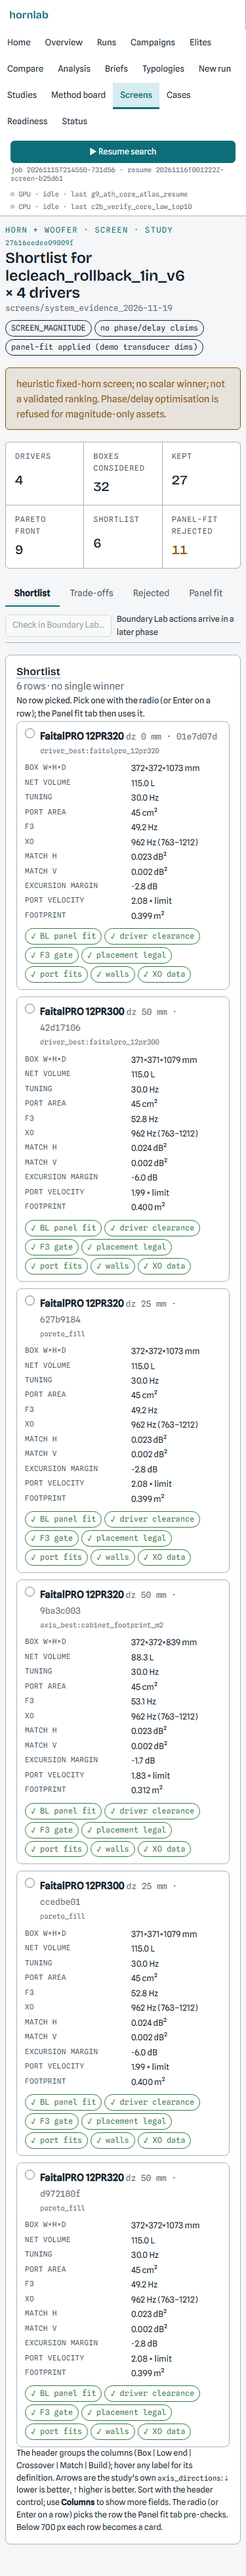
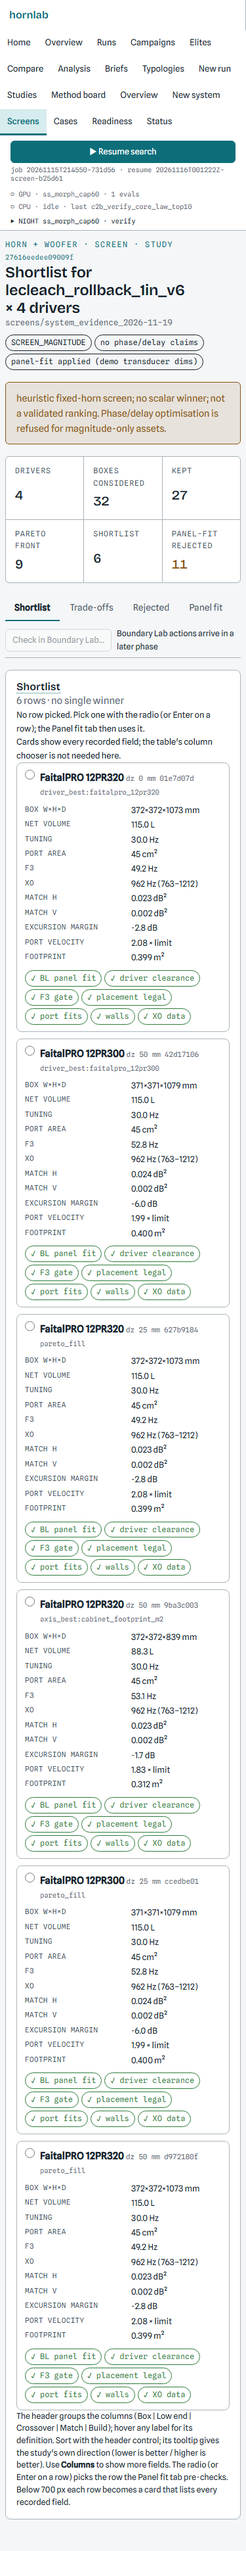
fix(gui): shortlist readability follow-ups (observer review)
Keeps Hz/dB²/cm²/m²/× limit casing in headers (th uppercase no longer touches unit spans), leaves one sort glyph per header, uses the same driver_name in table and cards, renders driver meta as two nowrap items with no dangling separator, adds a prominent sideways-scroll banner plus a sticky Driver column at >=701 px, and tells mobile card mode that it already lists every field. Re-shot the two chooser screenshots: the earlier dark files were light-theme because the probe URL had 'dark/'. Browser check exit 0, 0 failures/0 console errors across 8 combinations; evidence refreshed under shortlist_after.

Changed region(s): [[0.0, 0.0312, 0.9973, 0.9977], [0.8213, 0.0, 0.8507, 0.0312]]

diff --git a/hornlab_search/gui/static/hw_screen.js b/hornlab_search/gui/static/hw_screen.js
@@ -183,6 +183,8 @@ const modelOf = id => {
 };
 const shortIdOf = r => String(r.candidate_id == null ? "" : r.candidate_id).slice(0, 8);
 const dzMmOf = r => r.placement && r.placement.dz_mm != null ? num(r.placement.dz_mm, 0) : "–";
+/** Driver meta line shared by the table and the 375 px cards: wraps between items, no dangling dot. */
+const driverMetaHtml = r => `<span class="hw-driver-meta mono muted"><span>dz ${esc(dzMmOf(r))} mm</span><span>${esc(shortIdOf(r))}</span></span>`;
 const xoBandOf = r => (Array.isArray(r.xo_band_hz) && r.xo_band_hz.length >= 2)
   ? [Math.min(...r.xo_band_hz), Math.max(...r.xo_band_hz)] : null;
 
@@ -218,6 +220,8 @@ const SCREEN_CSS = `
 #hw-shortlist { font-size:0.82rem; }
 #hw-shortlist th, #hw-shortlist td { padding:5px 8px; vertical-align:middle; }
 #hw-shortlist thead th { background:var(--surface); font-size:0.74rem; white-space:nowrap; }
+/* Units keep their real casing under the page's uppercase th treatment (Hz, dB², cm²). */
+#hw-shortlist .hw-unit { text-transform:none; }
 #hw-shortlist thead tr.hw-groups th.hw-group {
   font-size:0.66rem; text-transform:uppercase; letter-spacing:0.07em; color:var(--label);
   font-weight:600; text-align:left; padding:6px 8px 2px; border-bottom:1px solid var(--rule); }
@@ -233,11 +237,27 @@ const SCREEN_CSS = `
 #hw-shortlist th[data-col="why"] { min-width:8rem; }
 #hw-shortlist th[data-col="box"] { min-width:10.5rem; }
 #hw-shortlist th[data-col="lowend"] { min-width:7.5rem; }
+/* Driver meta (dz + id): wraps between items, never leaves a dangling separator. */
+.hw-driver-meta { display:inline-flex; flex-wrap:wrap; gap:0 6px; max-width:100%;
+  font-size:0.68rem; line-height:1.35; }
+.hw-driver-meta > span { white-space:nowrap; }
 #hw-shortlist input[type="radio"], .hw-card input[type="radio"] {
   width:15px; height:15px; margin:0; accent-color:var(--accent); }
 #hw-shortlist tbody tr[aria-selected="true"] {
   background:color-mix(in srgb, var(--accent) 10%, var(--surface)); }
 #hw-shortlist tbody tr:focus-visible { outline:2px solid var(--accent); outline-offset:-2px; }
+/* Sticky Driver column (table mode only): row identity survives a sideways scroll. */
+@media (min-width:701px) {
+  #hw-shortlist th[data-col="driver"],
+  #hw-shortlist td[data-col="driver"] {
+    position:sticky; left:0; background:var(--surface);
+    box-shadow:1px 0 0 var(--rule); }
+  #hw-shortlist th[data-col="driver"] { z-index:3; }
+  #hw-shortlist td[data-col="driver"] { z-index:1; }
+  #hw-shortlist tbody tr:hover td[data-col="driver"] { background:var(--accent-soft); }
+  #hw-shortlist tbody tr[aria-selected="true"] td[data-col="driver"] {
+    background:color-mix(in srgb, var(--accent) 10%, var(--surface)); }
+}
 
 /* Column chooser: a native <details> popover that never widens the page. */
 #hw-shortlist-card .hw-cols { position:relative; }
@@ -273,8 +293,13 @@ const SCREEN_CSS = `
   text-decoration:underline; text-underline-offset:2px; }
 #hw-screens .hw-open:hover { color:var(--ink); }
 
-#hw-screens-scroll .tbl-scroll-hint,
-#hw-shortlist-scroll .tbl-scroll-hint { font-size:0.8rem; color:var(--label); }
+#hw-screens-scroll .tbl-scroll-hint { font-size:0.8rem; color:var(--label); }
+/* Shortlist: when the wrap really overflows, the cue is a visible banner, not a whisper. */
+#hw-shortlist-scroll.is-scrollable .tbl-scroll-hint {
+  display:block; margin:0 0 6px; padding:4px 10px; text-align:left;
+  border:1px solid var(--accent); border-radius:6px; background:var(--accent-soft);
+  color:var(--accent); font-family:var(--f-body); font-size:0.78rem; font-weight:600;
+  letter-spacing:0; }
 
 /* At desktop width the screens list fits; let the page be the scroll container so the
    sticky header really sticks. The shortlist keeps its own .tbl-wrap scroll at every
@@ -288,9 +313,12 @@ const SCREEN_CSS = `
 }
 
 .hw-cards { display:none; }
+/* The card mode is the whole table there; say so, so the hidden chooser is not a dead end. */
+.hw-card-note { display:none; }
 @media (max-width:700px) {
   .hw-table-view { display:none !important; }
   .hw-cards { display:grid; gap:10px; }
+  .hw-card-note { display:block; }
   /* The card layout carries every field, so the table's column chooser would be a dead control. */
   #hw-shortlist-card .hw-cols { display:none; }
 }
@@ -579,6 +607,8 @@ export async function viewHwScreen(root, studyId, query = "") {
 
   /** The seven reading columns, plus every remaining recorded field behind the chooser. */
   function columnDefs() {
+    // Units keep their real case under the page's uppercase th treatment.
+    const u = t => `<span class="hw-unit">${t}</span>`;
     const whyCell = r => {
       const raw = r.shortlist_reason == null ? "" : String(r.shortlist_reason);
       if (!raw) return `<td class="hw-wrap"><span class="muted">–</span></td>`;
@@ -639,49 +669,49 @@ export async function viewHwScreen(root, studyId, query = "") {
     return [
       { key: "driver", group: null, name: "Driver", sort: "driver", title: "Woofer driver",
         head: () => "Driver",
-        cell: r => `<td class="hw-wrap"><b title="${esc(r.driver_name || r.driver_id || "")}">${esc(modelOf(r.driver_id) || r.driver_name || "–")}</b><br>
-          <span class="mono muted" style="font-size:0.68rem">dz ${esc(dzMmOf(r))} mm · ${esc(shortIdOf(r))}</span></td>` },
+        cell: r => `<td class="hw-wrap"><b title="${esc(r.driver_name || r.driver_id || "")}">${esc(r.driver_name || r.driver_id || "–")}</b><br>
+          ${driverMetaHtml(r)}</td>` },
       { key: "why", group: "Screen", name: "Why shortlisted", sort: "why", title: "Why the screen kept this row",
         head: () => "Why shortlisted", cell: whyCell },
       { key: "box", group: "Box", name: "Box (W×H×D, L)", sort: "box",
         title: "External width × height × depth (mm) and net volume (L)",
-        head: () => "Box (W×H×D, L)", cell: boxCell },
+        head: () => `Box (W×H×D, ${u("L")})`, cell: boxCell },
       { key: "net", group: "Box", name: "Net volume (L)", sort: "net", title: "Net internal volume (L)",
-        head: () => "Net volume (L)",
+        head: () => `Net volume (${u("L")})`,
         cell: r => numTd(r.box && r.box.net_volume_l, 1) },
       { key: "foot", group: "Box", name: "Cabinet footprint (m²)", sort: "foot",
-        title: "Cabinet footprint (m²)", head: () => "Cabinet footprint (m²)",
+        title: "Cabinet footprint (m²)", head: () => `Cabinet footprint (${u("m²")})`,
         cell: r => numTd(r.numeric_axes && r.numeric_axes.cabinet_footprint_m2, 3) },
       { key: "lowend", group: "Low end", name: "Tuning / F3 (Hz)", sort: "tuning",
         title: "Ported-box tuning and the box model's F3 (Hz)",
-        head: () => `${tip("fb_tuning", "Tuning")} / ${tip("f3", "F3")} (Hz)`, cell: lowendCell },
+        head: () => `${tip("fb_tuning", "Tuning")} / ${tip("f3", "F3")} (${u("Hz")})`, cell: lowendCell },
       { key: "f3", group: "Low end", name: "F3 (Hz)", sort: "f3", axisKey: "lf_f3_hz",
-        title: "F3 (Hz)", head: () => `${tip("f3", "F3")} (Hz)`,
+        title: "F3 (Hz)", head: () => `${tip("f3", "F3")} (${u("Hz")})`,
         cell: r => numTd(r.box && r.box.f3_hz, 1) },
       { key: "port", group: "Low end", name: "Port area (cm²)", sort: "port",
-        title: "Port throat area (cm²)", head: () => "Port area (cm²)",
+        title: "Port throat area (cm²)", head: () => `Port area (${u("cm²")})`,
         cell: r => numTd(r.box && r.box.port_throat_area_cm2, 0) },
       { key: "exc", group: "Low end", name: "Excursion margin (dB)", sort: "exc",
         axisKey: "excursion_margin_db", title: "Excursion margin (dB)",
-        head: () => `${tip("excursion_margin", "Excursion margin")} (dB)`,
+        head: () => `${tip("excursion_margin", "Excursion margin")} (${u("dB")})`,
         cell: r => numTd(r.numeric_axes && r.numeric_axes.excursion_margin_db, 1) },
       { key: "pv", group: "Low end", name: "Port velocity (× limit)", sort: "pv",
         axisKey: "port_velocity_ratio", title: "Port velocity as a ratio of the limit",
-        head: () => `${tip("port_velocity", "Port velocity")} (× limit)`,
+        head: () => `${tip("port_velocity", "Port velocity")} (${u("× limit")})`,
         cell: r => numTd(r.numeric_axes && r.numeric_axes.port_velocity_ratio, 2) },
       { key: "xo", group: "Crossover", name: "Crossover (Hz)", sort: "xo",
         title: "Crossover frequency and overlap band (Hz)",
-        head: () => `${tip("xo_band", "Crossover")} (Hz)`, cell: xoCell },
+        head: () => `${tip("xo_band", "Crossover")} (${u("Hz")})`, cell: xoCell },
       { key: "match", group: "Match", name: "Match error H / V (dB²)", sort: "mr_h",
         axisKey: "match_error_h_db2", title: "Shape match error H and V (dB²)",
-        head: () => `${tip("e_shape", "Match H / V")} (dB²)`, cell: matchCell },
+        head: () => `${tip("e_shape", "Match H / V")} (${u("dB²")})`, cell: matchCell },
       { key: "matchh", group: "Match", name: "Match error H (dB²)", sort: "mr_h",
         axisKey: "match_error_h_db2", title: "Shape match error H (dB²)",
-        head: () => `${tip("e_shape", "Match error H")} (dB²)`,
+        head: () => `${tip("e_shape", "Match error H")} (${u("dB²")})`,
         cell: r => fmtTd(r.numeric_axes && r.numeric_axes.match_error_h_db2, "match_error_h_db2") },
       { key: "matchv", group: "Match", name: "Match error V (dB²)", sort: "mr_v",
         axisKey: "match_error_v_db2", title: "Shape match error V (dB²)",
-        head: () => `${tip("e_shape", "Match error V")} (dB²)`,
+        head: () => `${tip("e_shape", "Match error V")} (${u("dB²")})`,
         cell: r => fmtTd(r.numeric_axes && r.numeric_axes.match_error_v_db2, "match_error_v_db2") },
       { key: "feasible", group: "Build", name: "Feasible", sort: "feasible",
         title: "Every recorded feasibility gate", head: () => "Feasible", cell: gatesCell },
@@ -748,7 +778,7 @@ export async function viewHwScreen(root, studyId, query = "") {
             aria-label="Select ${esc(r.driver_name || r.driver_id || "row")} ${esc(cid)}">
           <div>
             <b>${esc(r.driver_name || r.driver_id || "–")}</b>
-            <span class="mono muted">dz ${esc(dzMmOf(r))} mm · ${esc(shortIdOf(r))}</span>
+            ${driverMetaHtml(r)}
             <div class="muted" style="font-size:0.76rem;white-space:normal;overflow-wrap:break-word">
               <code>${esc(r.shortlist_reason || "–")}</code></div>
           </div>
@@ -772,11 +802,12 @@ export async function viewHwScreen(root, studyId, query = "") {
 
     const headInner = d => {
       const active = sort && d.sort && sort.key === d.sort;
-      const arrow = d.axisKey ? dirArrow(d.axisKey, axisDirs) : "";
       const dirText = d.axisKey ? dirWord(d.axisKey, axisDirs) : "";
       const ind = active ? (sort.dir > 0 ? "▲" : "▼") : "↕";
       const title = d.title || d.name;
-      return `${d.head()}${arrow ? ` <span class="muted" aria-hidden="true" title="${esc(dirText)}">${arrow}</span>` : ""}${d.sort
+      // One glyph per header: the sort control. The study's direction stays in the control's
+      // tooltip and accessible name, so Match no longer shows two arrows side by side.
+      return `${d.head()}${d.sort
         ? ` <button type="button" class="linkish" data-sort="${esc(d.sort)}"
             title="Sort by ${esc(title)}${dirText ? " (" + esc(dirText) + ")" : ""}"
             aria-label="Sort by ${esc(title)}${dirText ? ", " + esc(dirText) : ""}">${ind}</button>` : ""}`;
@@ -807,7 +838,9 @@ export async function viewHwScreen(root, studyId, query = "") {
       }
       const rowsHtml = list.map(r => {
         const cid = String(r.candidate_id);
-        return `<tr class="clickable" data-cid="${esc(cid)}" tabindex="0" aria-selected="${cid === selected}">${vis.map(d => d.cell(r)).join("")}</tr>`;
+        // Tag each cell with its column key so the Driver cell can stay sticky while scrolling.
+        const cells = vis.map(d => d.cell(r).replace(/^<td/, `<td data-col="${esc(d.key)}"`)).join("");
+        return `<tr class="clickable" data-cid="${esc(cid)}" tabindex="0" aria-selected="${cid === selected}">${cells}</tr>`;
       }).join("");
       return `<table id="hw-shortlist" aria-label="Shortlist rows">
         <thead><tr class="hw-groups">${groupRow}</tr><tr class="hw-head">${headRow}</tr></thead>
@@ -891,16 +924,18 @@ export async function viewHwScreen(root, studyId, query = "") {
         </details>
       </div>
       <p class="hint" role="status" id="hw-pick-status" style="font-size:0.8rem">${esc(shortlistStatus())}</p>
+      <p class="hint hw-card-note" style="font-size:0.8rem">Cards show every recorded field; the table's
+        column chooser is not needed here.</p>
       <div class="tbl-scroll hw-table-view" id="hw-shortlist-scroll">
-        <div class="tbl-scroll-hint" aria-hidden="true">scroll for all columns →</div>
+        <div class="tbl-scroll-hint" aria-hidden="true">More columns → scroll this table sideways</div>
         <div class="tbl-wrap" id="hw-shortlist-wrap"></div>
       </div>
       <div class="hw-cards">${shortlist.map(cardHtml).join("")}</div>
       <p class="cap" style="font-size:0.78rem">The header groups the columns
-        (Box | Low end | Crossover | Match | Build); hover any label for its definition. Arrows are the
-        study's own <code>axis_directions</code>: ↓ lower is better, ↑ higher is better. Sort with the
-        header control; use <b>Columns</b> to show more fields. The radio (or Enter on a row) picks the
-        row the Panel fit tab pre-checks. Below 700 px each row becomes a card.</p>
+        (Box | Low end | Crossover | Match | Build); hover any label for its definition. Sort with the
+        header control; its tooltip gives the study's own direction (lower is better / higher is better).
+        Use <b>Columns</b> to show more fields. The radio (or Enter on a row) picks the row the Panel fit
+        tab pre-checks. Below 700 px each row becomes a card that lists every recorded field.</p>
     </section>`;
 
     const colsBox = body.querySelector("#hw-cols");
